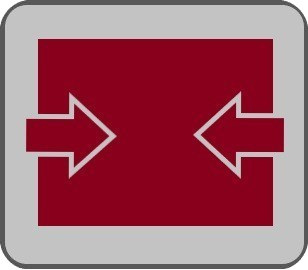
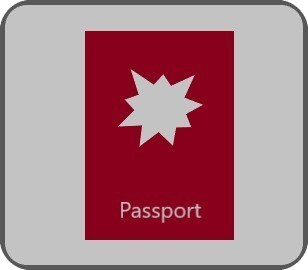
create a mode selection page

diff --git a/DurakGame.WebSite/DurakGame.Server/wwwroot/src/gameView.ts b/DurakGame.WebSite/DurakGame.Server/wwwroot/src/gameView.ts
@@ -104,6 +104,7 @@ export class GameView {
     private state: State;
 
     private button: Button;
+    private buttonMenu: Button;
     private joinButton: Button;
     private createButton: Button;
 
@@ -187,31 +188,34 @@ export class GameView {
 
     private setModesPositions(): void {
         this.modesPositions.set(1, {
-            x: this.canvas.width / 2 - this.cardHeight / 4 -  this.cardWidth - this.cardHeight / 2,
-            y: this.canvas.height / 2 - this.cardHeight / 2
+            x: this.canvas.width / 2 - this.cardHeight / 2 - this.cardHeight,
+            y: this.canvas.height / 2 - this.cardHeight - this.cardHeight / 2
         });
 
         this.modesPositions.set(2, {
-            x: this.canvas.width / 2 - this.cardHeight / 4,
-            y: this.canvas.height / 2 - this.cardHeight / 2
+            x: this.canvas.width / 2 + this.cardHeight / 2,
+            y: this.canvas.height / 2 - this.cardHeight - this.cardHeight / 2
         });
 
         this.modesPositions.set(3, {
-            x: this.canvas.width / 2 + this.cardHeight / 4 + this.cardWidth,
-            y: this.canvas.height / 2 - this.cardHeight / 2
+            x: this.canvas.width / 2 - this.cardHeight / 2,
+            y: this.canvas.height / 2 + this.cardHeight / 4 - this.cardHeight / 2
         });
 
         this.modesPositions.set(4, {
-            x: this.canvas.width / 2 - this.cardHeight / 4 - this.cardWidth / 2 -
-                this.cardHeight / 4,
-            y: this.canvas.height / 2 + this.cardHeight / 2
+            x: this.canvas.width / 2 - this.cardHeight / 2 - this.cardHeight - this.cardHeight,
+            y: this.canvas.height / 2 + this.cardHeight / 2 + this.cardHeight - this.cardHeight / 2
         });
 
         this.modesPositions.set(5, {
-            x: this.canvas.width / 2 + this.cardHeight / 4 + this.cardWidth / 2 -
-                this.cardHeight / 4,
-            y: this.canvas.height / 2 + this.cardHeight / 2
+            x: this.canvas.width / 2 - this.cardHeight / 2,
+            y: this.canvas.height / 2 + this.cardHeight / 2 + this.cardHeight - this.cardHeight / 2
         });
+
+        this.modesPositions.set(6, {
+            x: this.canvas.width / 2 + this.cardHeight / 2 + this.cardHeight,
+            y: this.canvas.height / 2 + this.cardHeight / 2 + this.cardHeight - this.cardHeight / 2
+        })
     }
 
     private reportWindowResize(canvas: HTMLCanvasElement, context: CanvasRenderingContext2D): void {
@@ -362,18 +366,45 @@ export class GameView {
         return this.createButton.contains(this.mousePos);
     }
 
+    /*
+        Returns an image for a given card.
+    */
+    public getImage(card?: Card, isCard?: boolean, name?: string): HTMLImageElement {
+        let strImg: string;
+        if (isCard) {
+            if (card) {
+                let strRank: string = this.fromIntToRank(card.rank);
+                let strSuit: string = this.fromIntToSuit(card.suit);
+                strImg = strRank.concat(strSuit);
+            } else {
+                strImg = this.backCard;
+            }
+        } else {
+            strImg = name;
+        }
+
+        if (this.images.has(strImg)) {
+            return this.images.get(strImg);
+        }
+        else {
+            let img = new Image();
+            img.onload = () => isCard ? this.displayStateOfTheGame() : this.LoadGameSettingMenu();
+            img.src = (isCard ? this.cardDir : this.modesDir).concat(strImg.concat(".png"));
+
+            this.images.set(strImg, img);
+            return img;
+        }
+    }
+
     private displayModeImages(): void {
         let img: HTMLImageElement;
         let pos: { x: number, y: number; };
 
-        for (let i: number = 1; i <= 5; i++) {
+        for (let i: number = 1; i <= 6; i++) {
             pos = this.modesPositions.get(i);
+            img = this.getImage(undefined, false, i.toString());
 
-            img = new Image();
-            img.onload = () => this.context.drawImage(
-                img, pos.x, pos.y, this.cardHeight / 2, this.cardHeight / 2
-            );
-            img.src = this.modesDir.concat(i.toString().concat(".png"));
+            this.context.drawImage(img, pos.x, pos.y, this.cardHeight, this.cardHeight);
         }
     }
 
@@ -384,8 +415,12 @@ export class GameView {
         // redraw the screen
         this.drawScreen('lavender', 'black');
 
+        // display "Choose Modes" text
+        this.writeMainTextWithUnderlying("Choose Modes");
+
         // display the setting of the game
         this.displayModeImages();
+
     }
 
     /*
@@ -439,43 +474,18 @@ export class GameView {
 
     }
 
-    /*
-        Returns an image for a given card.
-    */
-    public getCardImage(card?: Card): HTMLImageElement {
-        let strImg: string;
-        if (card) {
-            let strRank: string = this.fromIntToRank(card.rank);
-            let strSuit: string = this.fromIntToSuit(card.suit);
-            strImg = strRank.concat(strSuit);
-        } else {
-            strImg = this.backCard;
-        }
-
-        if (this.images.has(strImg)) {
-            return this.images.get(strImg);
-        }
-        else {
-            let img = new Image();
-            img.onload = () => this.displayStateOfTheGame();
-            img.src = this.cardDir.concat(strImg.concat(".png"));
-
-            this.images.set(strImg, img);
-            return img;
-        }
-    }
 
     private displayBoutHelper(pos: { x: number, y: number; }[], yOffset: number, from: number,
         toAttacking: number, toDefending: number): void {
 
         for (let i = from; i < toAttacking; i++) {
-            let img: HTMLImageElement = this.getCardImage(this.gameView.attackingCards[i]);
+            let img: HTMLImageElement = this.getImage(this.gameView.attackingCards[i]);
 
             this.context.drawImage(img, pos[i % 4].x, pos[i % 4].y - yOffset, this.cardWidth, this.cardHeight);
         }
 
         for (let i = from; i < toDefending; i++) {
-            let img: HTMLImageElement = this.getCardImage(this.gameView.defendingCards[i]);
+            let img: HTMLImageElement = this.getImage(this.gameView.defendingCards[i]);
 
             this.context.drawImage(img, pos[i % 4].x + 20, pos[i % 4].y - yOffset, this.cardWidth, this.cardHeight);
         }
@@ -517,7 +527,7 @@ export class GameView {
     public displayDiscardedHeap(): void {
         for (let i = 0; i < this.gameView.discardHeapSize; i++) {
             let coordinates: { angle: number, y: number; };
-            let img: HTMLImageElement = this.getCardImage();
+            let img: HTMLImageElement = this.getImage();
 
             this.context.save();
             this.context.translate(this.cardRightX + this.cardWidth,
@@ -551,7 +561,7 @@ export class GameView {
         Dispaly the Suit of the Trump card when there is no deck  
     */
     public displayTrumpSuit(): void {
-        let img: HTMLImageElement = this.getCardImage(this.gameView.trumpCard);
+        let img: HTMLImageElement = this.getImage(this.gameView.trumpCard);
         this.context.drawImage(img, this.cardLeftX, this.deckPosY,
             this.cardWidth, this.cardHeight);
     }
@@ -561,7 +571,7 @@ export class GameView {
         perpendicular to the rest of the face-down deck 
     */
     public displayDeck(): void {
-        let img: HTMLImageElement = this.getCardImage(this.gameView.trumpCard);
+        let img: HTMLImageElement = this.getImage(this.gameView.trumpCard);
         this.context.save();
 
         this.context.translate(this.deckPosX + this.cardWidth + this.cardWidth / 2,
@@ -576,7 +586,7 @@ export class GameView {
 
         // draw the rest of the deck 
         for (let i = 0; i < this.gameView.deckSize - 1; i++) {
-            img = this.getCardImage();
+            img = this.getImage();
             this.context.drawImage(
                 img, this.deckPosX + i + this.cardWidth * 1 / 150, this.deckPosY,
                 this.cardWidth, this.cardHeight
@@ -610,7 +620,7 @@ export class GameView {
     private displayMainPlayersHand(hand: Card[], x: number, y: number, tWidth: number) {
         if (hand.length != 0) {
             for (let i = 0; i < hand.length; i++) {
-                let img: HTMLImageElement = this.getCardImage(hand[i]);
+                let img: HTMLImageElement = this.getImage(hand[i]);
                 this.context.drawImage(
                     img, x + i * this.cardCorner, y, this.cardWidth,
                     this.cardHeight
@@ -627,7 +637,7 @@ export class GameView {
     private displayFaceDownCards(playerView: PlayerView, x: number, y: number, tWidth: number) {
         if (playerView.numberOfCards != 0) {
             for (let i = 0; i < playerView.numberOfCards; i++) {
-                let img: HTMLImageElement = this.getCardImage();
+                let img: HTMLImageElement = this.getImage();
                 this.context.drawImage(
                     img, x + i * this.cardCorner, y, this.cardWidth,
                     this.cardHeight
@@ -845,6 +855,8 @@ export class GameView {
         this.drawBox(text, this.canvas.width / 2, this.deckPosY - this.offset, 'black',
             'black', false, 75
         );
+
+        console.log(this.fontSize);
 
         // make a line under MENU
         this.context.beginPath();

diff --git a/DurakGame.WebSite/DurakGame.Server/Library/Game/Durak.cs b/DurakGame.WebSite/DurakGame.Server/Library/Game/Durak.cs
@@ -490,21 +490,3 @@ namespace DurakGame.Library.Game
         }
     }
 }
-
-
-
-/*
-Possible Combinations of Battle:
-
-1) Player1 Attack + Player2 Defend + Player1 Done + Player3 Attack + Player4 Defend + Player3 Done
- + Player1 Attack (works) 
-
-2) Player1 Attack + Player2 Defend + Player1 Done + Player3 Done (works)
-
-3) Player1 Attack + Player2 Take + Player1 Attack (until no cards to attack left) + Player1 Done + 
-   Player3 Attack (until no cards to attack left) + Player3 Done ()
-
-4) Player1 Attack + Player2 Take + Player1 Done + Player3 (until no cards to attack left) + Player3
-Done 
- 
-*/
